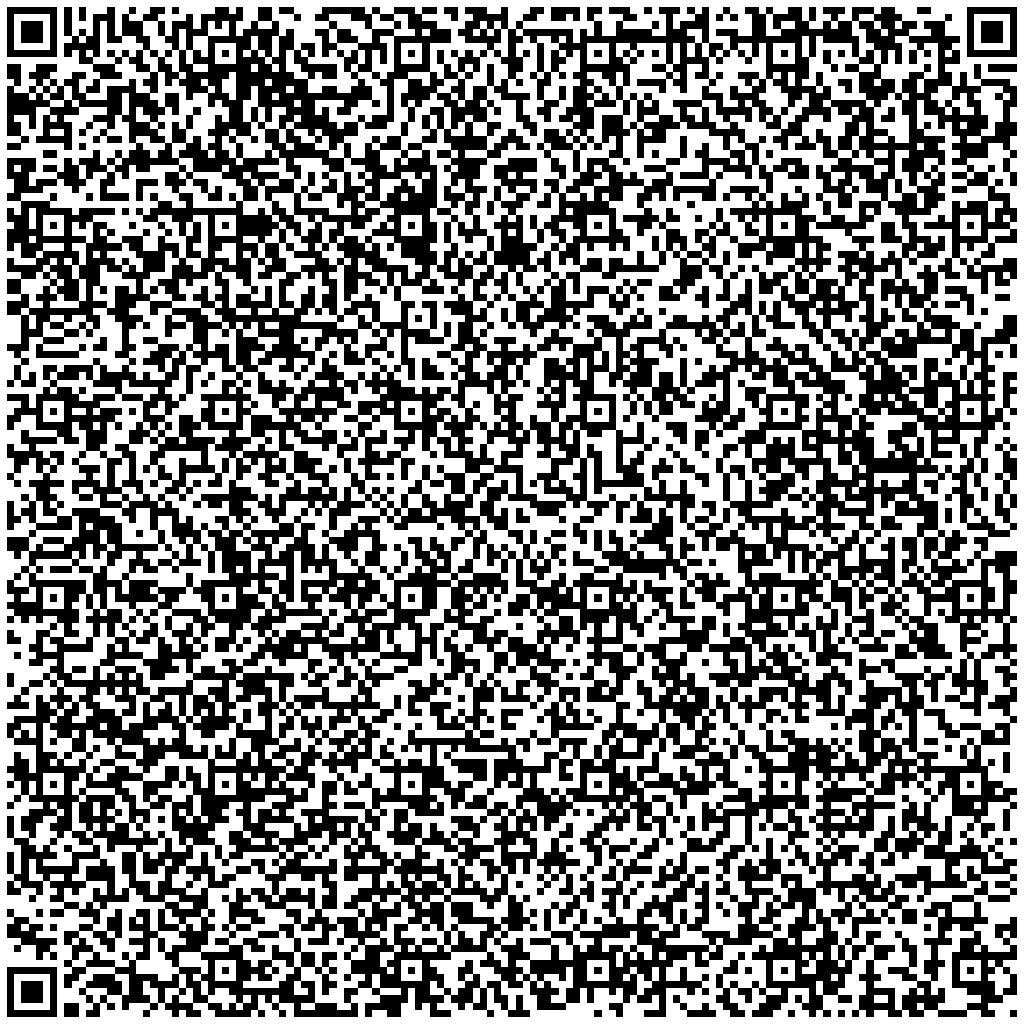
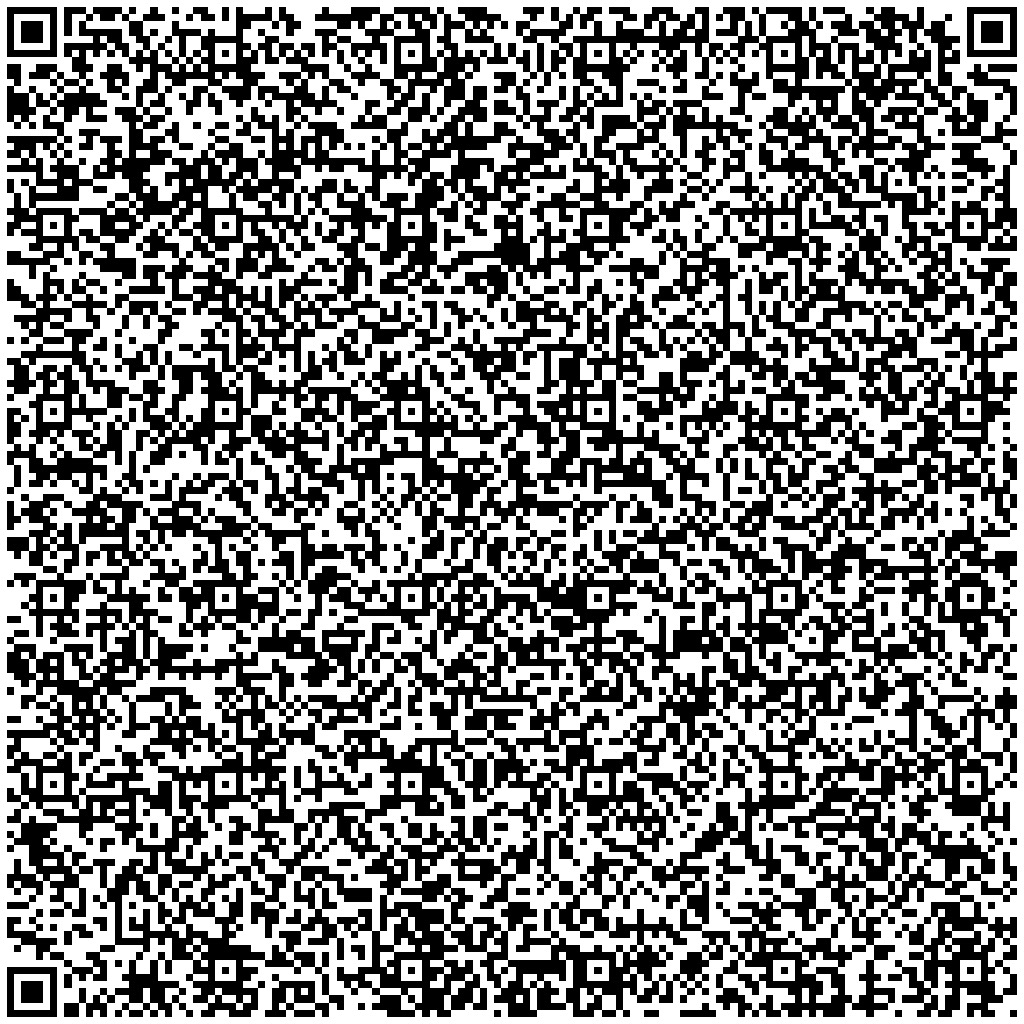
update akihabara

Changed region(s): [[0.0, 0.0, 1.0, 1.0]]

diff --git a/README.md b/README.md
@@ -78,7 +78,7 @@ While looking for the next theme to port, I came across one called [Tokyo Night]
 
 ![akihabara QR](https://raw.githubusercontent.com/maique/monaThemes/main/images/akihabaraQR.jpeg)
 
-mona-cat://df36
+mona-cat://76e2
 
 [Find it on Mastodon](https://social.lol/@maique/109915715048922536)
 
